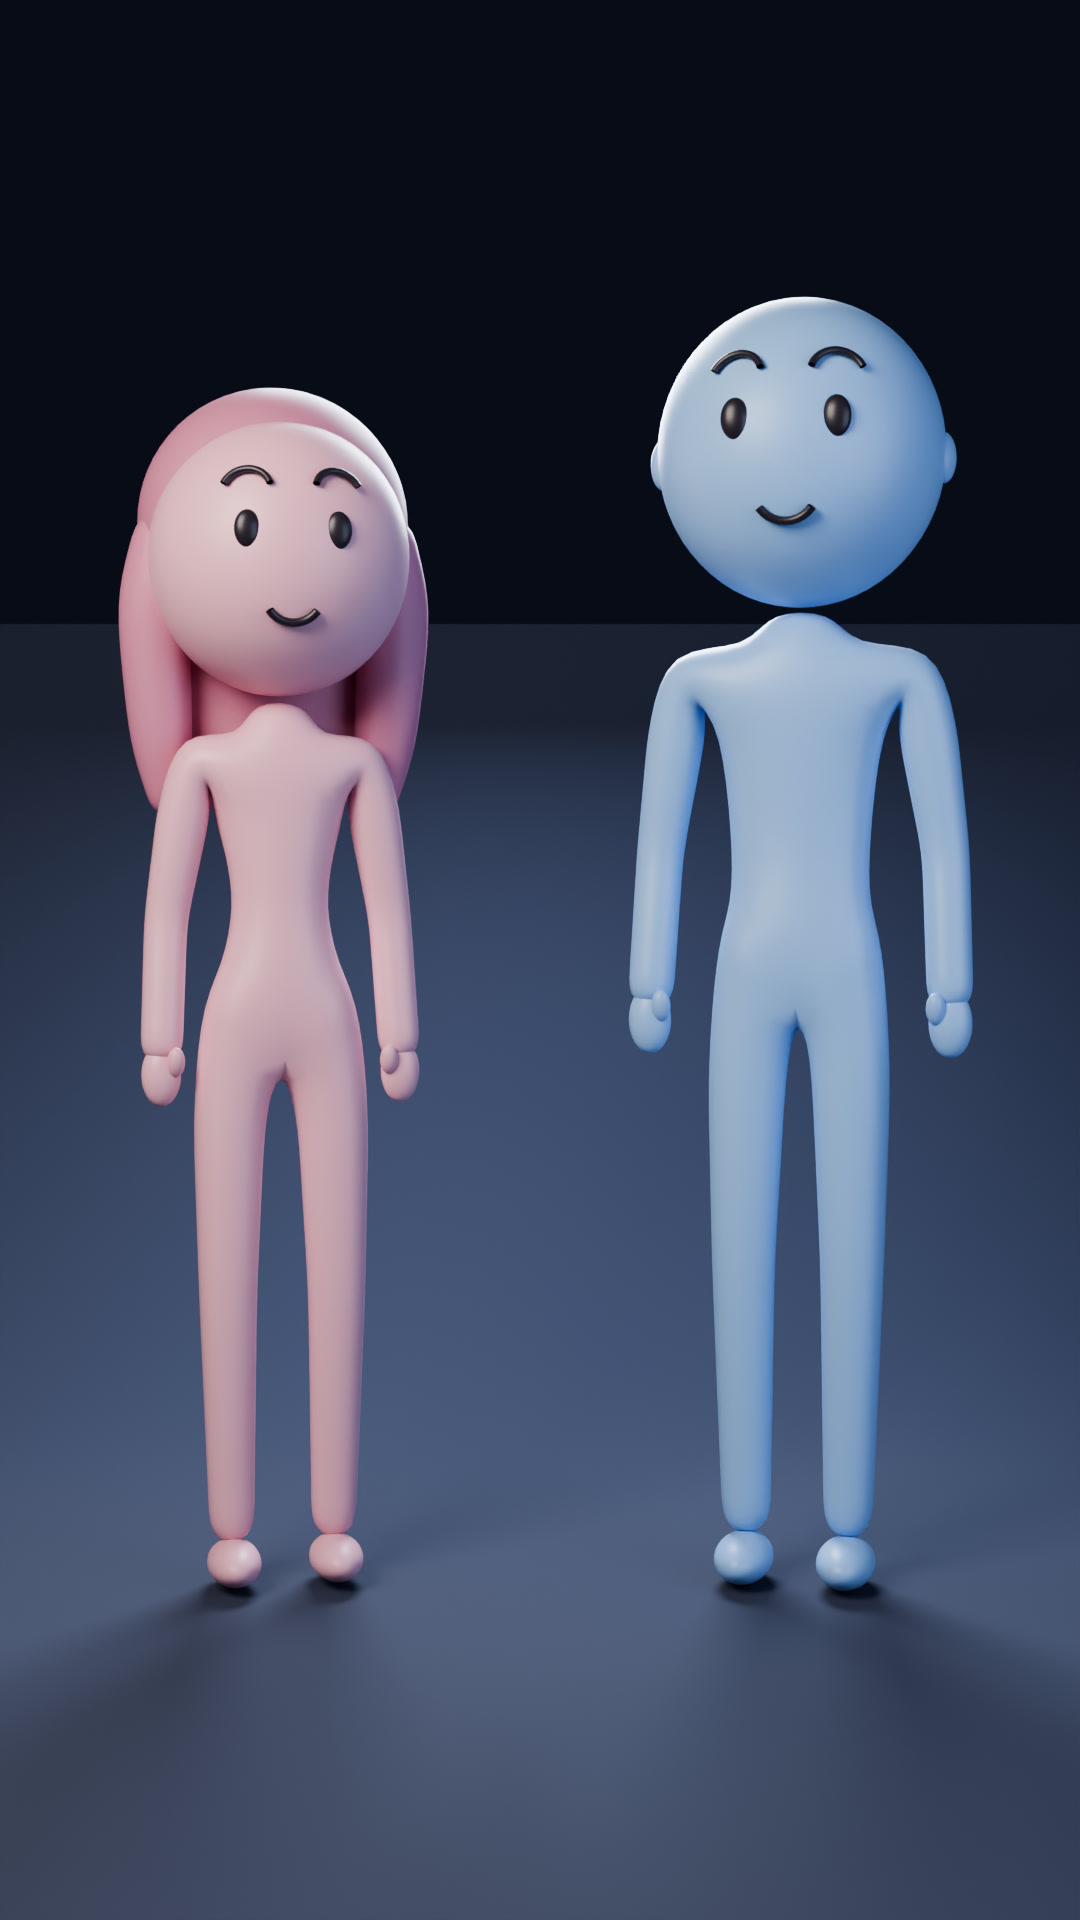
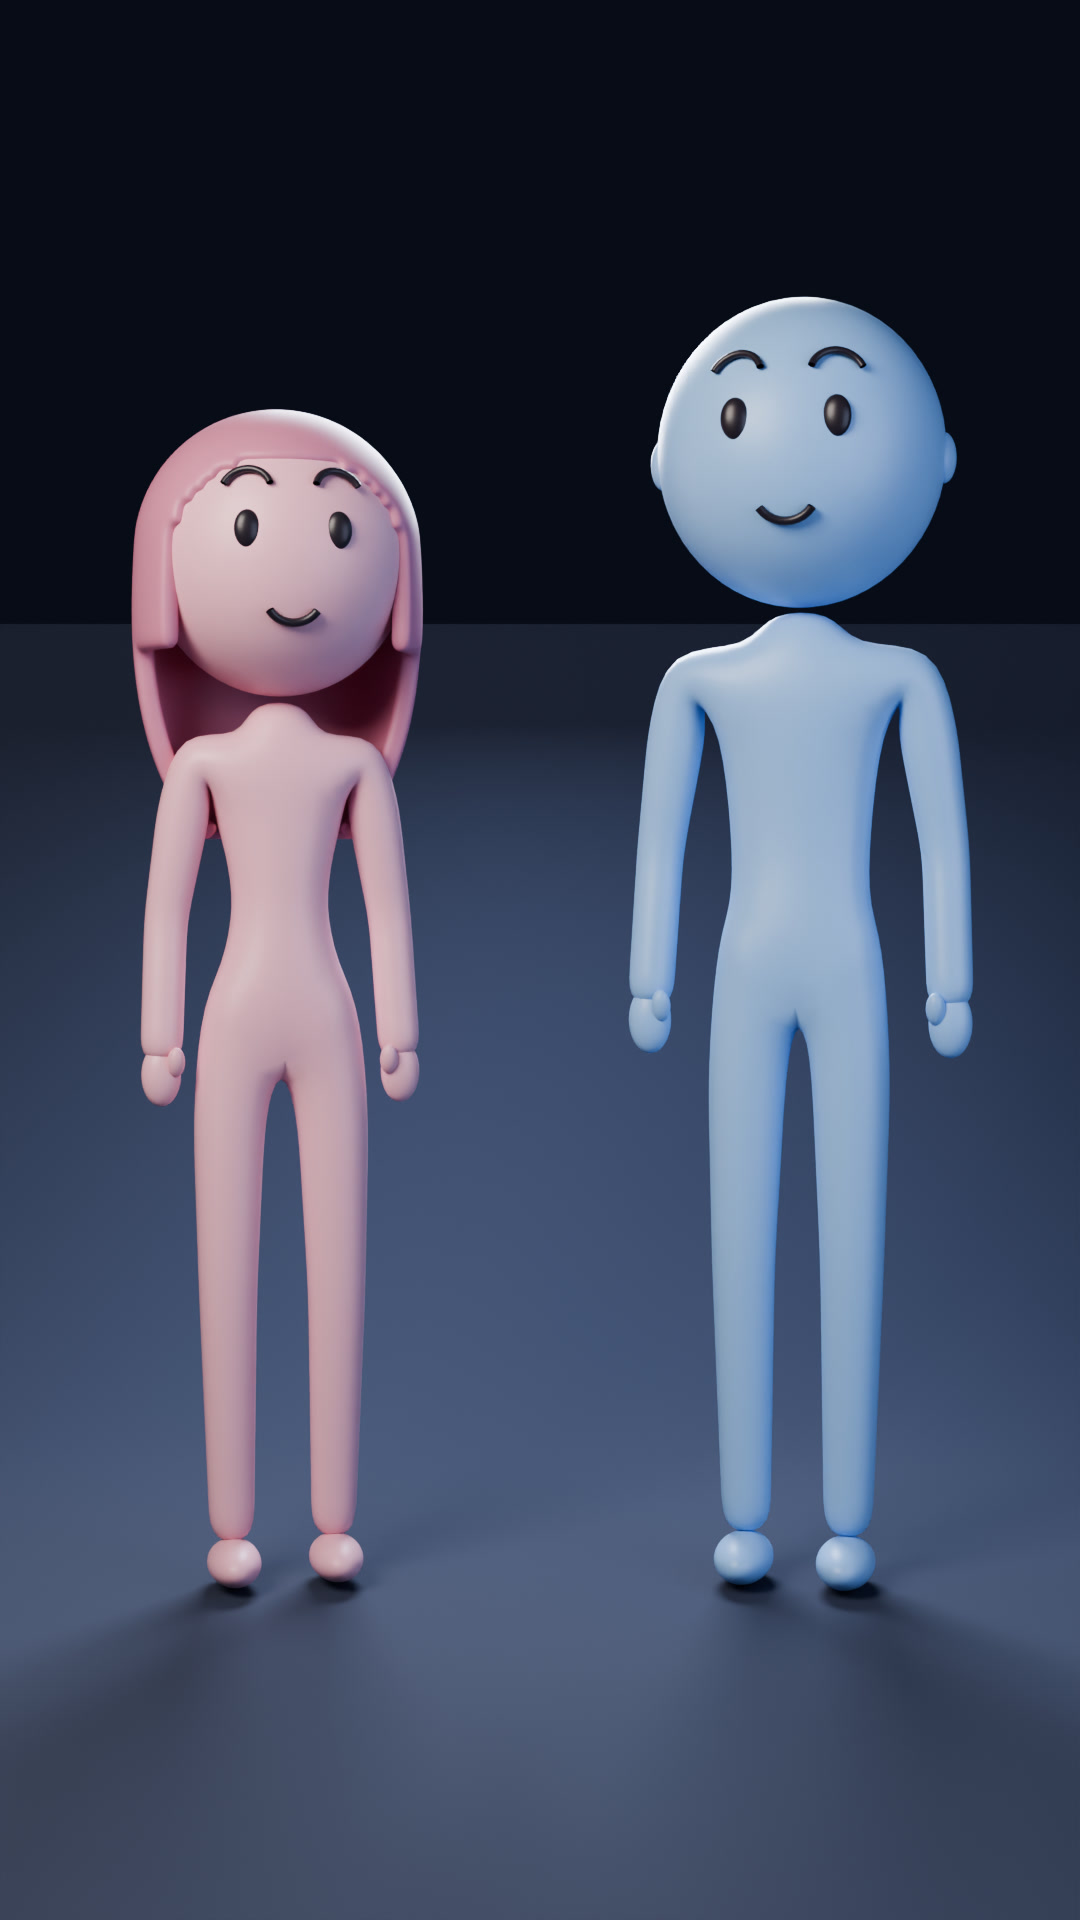
Her hair as one continuous shell with an oval face opening
Claude-Session: https://claude.ai/code/session_01FQFJKx8X2643G2hLZWtcZT

Changed region(s): [[0.0917, 0.1875, 0.3972, 0.4375]]

diff --git a/blender_figures/figures.py b/blender_figures/figures.py
@@ -107,17 +107,26 @@ def figure(w):
         arc(on_head(H, R, (s * 0.38, -1, 0.42), 0.002), on_head(H, R, (s * 0.38, -1, 0.42)) - H, (0, 0, 1), 0.036 * k, 0.0055, 20, 160, INK)
     arc(on_head(H, R, (0, -1, -0.38), 0.002), on_head(H, R, (0, -1, -0.38)) - H, (0, 0, 1), 0.04 * k, 0.0065, 205, 335, INK)   # smile
     if w:
-        # hair: loose, just below the shoulders; no fringe, forehead and brows free
-        sphere("cap", H + Vector((0, 0.075, 0.055)), R * 1.02, HAIR, (1.0, 1.0, 1.0))
-        shz = z(1.22)
-        # back sheet of hair from the crown down to just below the shoulders
-        skin("back", [tuple(H + Vector((0, R * 0.55, R * 0.35))), tuple(H + Vector((0, R * 0.8, -R * 0.4))), (0, H.y + R * 0.7, shz + 0.02), (0, H.y + R * 0.62, shz - 0.1)],
-             [(0, 1), (1, 2), (2, 3)], [(R * 0.88, R * 0.55), (R * 1.0, R * 0.5), (R * 0.95, R * 0.3), (R * 0.75, R * 0.16)], HAIR)
-        # side locks falling past the ears onto the shoulders
-        for s in (-1, 1):
-            skin("lock", [tuple(H + Vector((s * R * 0.72, R * 0.25, R * 0.35))), tuple(H + Vector((s * R * 0.92, R * 0.3, -R * 0.35))),
-                          (s * R * 0.85, H.y + R * 0.38, shz + 0.02), (s * R * 0.78, H.y + R * 0.42, shz - 0.09)],
-                 [(0, 1), (1, 2), (2, 3)], [R * 0.32, R * 0.3, R * 0.26, R * 0.14], HAIR)
+        # hair: ONE continuous shell around the head, open for the face, falling just below the shoulders
+        bpy.ops.mesh.primitive_uv_sphere_add(segments=72, ring_count=40, radius=1.0, location=(0, 0, 0))
+        hs = bpy.context.active_object; hs.name = "hair"
+        bm = bmesh.new(); bm.from_mesh(hs.data)
+        drop = (H.z - R) - (z(1.22) - 0.14)                      # how far the ends hang below the head
+        kill = []
+        for v in bm.verts:
+            d = v.co.normalized()
+            face = d.y < -0.2 and (d.x / 0.8) ** 2 + ((d.z + 0.05) / 0.62) ** 2 < 1.0   # oval face window, brows free
+            chin = d.y < -0.1 and d.z < -0.25                           # nothing in front of the neck
+            if face or chin or d.z < -0.9: kill.append(v); continue
+            rr = R * (1.07 + 0.02 * max(0, d.z))
+            t = max(0.0, (0.15 - d.z) / 1.05)                           # 0 above the ears .. 1 at the bottom
+            sp = 1 + 0.12 * t ** 1.3                                    # ends flare a little
+            v.co = Vector((d.x * rr * sp, d.y * rr * sp + 0.02 * t, d.z * rr - drop * t ** 0.9))
+        bmesh.ops.delete(bm, geom=kill, context="VERTS"); bm.to_mesh(hs.data); bm.free()
+        hs.location = H + Vector((0, 0.012, 0))
+        so = hs.modifiers.new("thick", "SOLIDIFY"); so.thickness = 0.03; so.offset = -1
+        sb = hs.modifiers.new("sub", "SUBSURF"); sb.levels = sb.render_levels = 2
+        smooth(hs); hs.data.materials.append(HAIR); reg(hs)
     else:
         for s in (-1, 1):                 # small ears so his bald head reads as a head
             sphere("ear", H + Vector((s * R * 0.95, 0.01, -0.01)), R * 0.17, m, (0.5, 0.8, 1.0))
